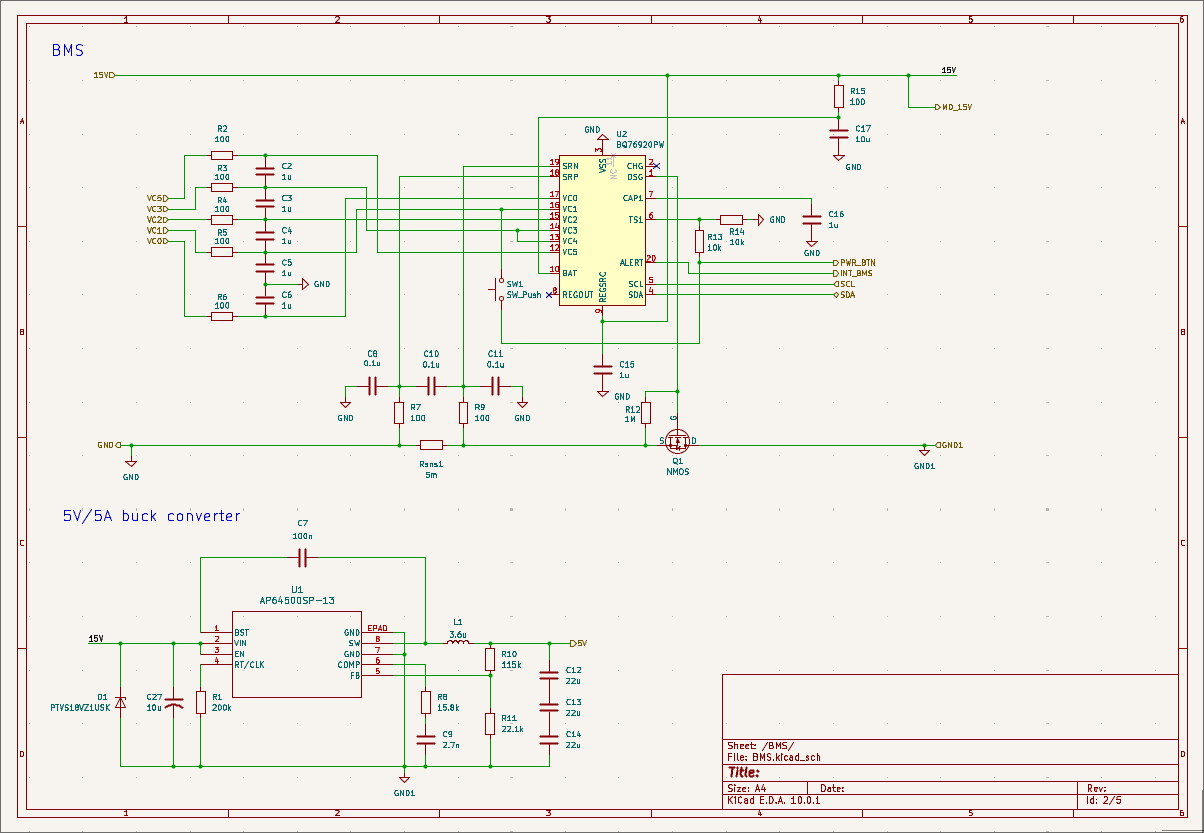
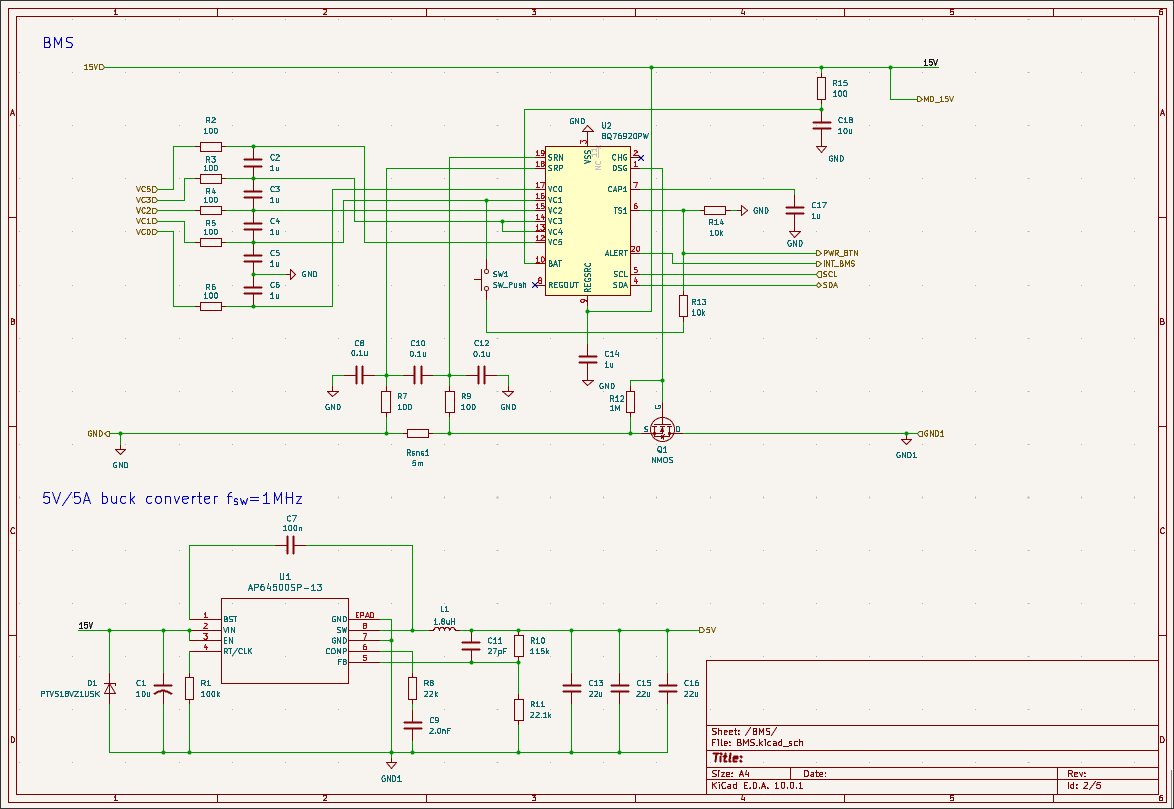
all schematics

diff --git a/src/content/projects/drone.md b/src/content/projects/drone.md
@@ -15,20 +15,22 @@ coverImage: "/images/drone/GPS+Magnetometer.png"
 
 ## My Main Tasks
 1. Design a drone flight controller PCB with follwing features:
-    - Battery management system (BMS) with 4S Lipo input
-    - ESP32-S3
-    - RF transceiver
+    - Battery management system (BMS) for 4S Lipo input
+    - ESP32-S3-MINI1U
+    - RF transceiver using SX1261
     - IMU, barometer, magnetometer, GPS module
 2. Implement Kalman filter firmware in Rust
 3. Design and fabricate a drone frame and test rigs
 
-## Electrical
+## Drone Flight Controller PCBs
 
 ![High Level Flight Controller Schematics](/images/drone/high_level_schematics.png)
-![BMS schematics](/images/drone/BMS.png)
+![BMS Schematics](/images/drone/BMS.png)
+![Flight Controller Schematics](/images/drone/FC.png)
+![Sensors Schematics](/images/drone/Sensors.png)
+![RF transceiver Schematics](/images/drone/RF.png)
+
 ![GPS & Magnetometer Schematics](/images/drone/GPS+Magnetometer_schematics.png)
 ![4-layer GPS & Magnetometer Module PCB](/images/drone/GPS+Magnetometer.png)
  
-## Mechanical
 
-## Firmware